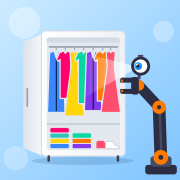
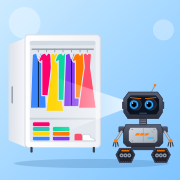
Add files via upload

diff --git a/index.html b/index.html
@@ -49,6 +49,19 @@ h2{font-weight:400;font-size:20px}
 .owner svg{width:16px;height:16px;align-self:center}
 .bgbar{position:absolute;left:0;right:0;bottom:-1px;transform:translateY(100%);background:var(--bg);border-bottom:1px solid var(--line);padding:6px 20px 8px;font-size:13px}
 .bgbar[hidden]{display:none}
+.bgline{display:flex;align-items:center;gap:8px}
+.bgbar .charly{width:22px;height:30px}
+.bgbar:not(.withcharly) .charly{display:none}
+.charly{width:30px;height:40px;flex:none;overflow:visible}
+.charly .eyes{animation:ch-look 2.6s ease-in-out infinite}
+.charly .lid{animation:ch-blink 3.4s infinite}
+.charly .ant{animation:ch-ant 1s steps(2) infinite}
+@keyframes ch-look{0%,100%{transform:translateX(0)}20%{transform:translateX(-16px)}55%{transform:translateX(16px)}75%{transform:translateX(0)}}
+@keyframes ch-blink{0%,90%,100%{opacity:0}93%,95%{opacity:1}}
+@keyframes ch-ant{50%{opacity:.2}}
+.rcard .ph .charly{width:56px;height:76px}
+.desc.loading{display:flex;align-items:center;gap:12px}
+.desc .who{display:block;font-size:13px;font-weight:500;margin-bottom:2px}
 .bgbar .track{height:2px;background:var(--line);margin-top:5px;overflow:hidden;position:relative}
 .bgbar .fill{position:absolute;left:0;top:0;bottom:0;background:var(--loden);transition:width .4s}
 .bgbar .fill.indet{width:30%!important;animation:indet 1.4s ease-in-out infinite}
@@ -262,6 +275,25 @@ const ICON = {
   chevD:I('<path d="m6 9 6 6 6-6"/>'),
 };
 
+/* Charly – kleiner Roboter, erscheint nur während er arbeitet */
+const CHARLY=`<svg class="charly" viewBox="190 50 650 900" aria-hidden="true">
+<path d="M254,780 h128 l40,70 l-40,86 h-128 l-40,-86z M642,780 h128 l40,70 l-40,86 h-128 l-40,-86z" fill="#1F222D"/>
+<rect x="274" y="800" width="88" height="14" rx="4" fill="#FF7A00"/><rect x="662" y="800" width="88" height="14" rx="4" fill="#FF7A00"/>
+<line x1="276" y1="600" x2="212" y2="700" stroke="#8A93A0" stroke-width="30" stroke-linecap="round"/><line x1="748" y1="600" x2="812" y2="700" stroke="#8A93A0" stroke-width="30" stroke-linecap="round"/>
+<circle cx="212" cy="700" r="22" fill="#FF7A00"/><circle cx="812" cy="700" r="22" fill="#FF7A00"/>
+<path d="M322,520 h380 l26,60 v140 l-40,40 h-352 l-40,-40 v-140z" fill="#3F4454"/>
+<path d="M372,556 h280 l16,36 v104 l-24,24 h-264 l-24,-24 v-104z" fill="#C9D0D9"/>
+<path d="M420,640 l20,-24 h40 l-20,24z M470,640 l20,-24 h40 l-20,24z M520,640 l20,-24 h40 l-20,24z" fill="#FF7A00"/>
+<rect x="470" y="452" width="84" height="76" rx="10" fill="#3A3F50"/>
+<line x1="600" y1="170" x2="640" y2="96" stroke="#8A93A0" stroke-width="12" stroke-linecap="round"/><circle class="ant" cx="642" cy="90" r="18" fill="#FF7A00"/>
+<path d="M300,236 l54,-72 h316 l54,72 v150 l-46,70 h-332 l-46,-70z" fill="#3F4454"/>
+<path d="M338,246 l36,-44 h276 l36,44 v118 l-30,46 h-288 l-30,-46z" fill="#0B1220"/>
+<g class="eyes"><circle cx="430" cy="302" r="50" fill="#2FB8FF"/><circle cx="430" cy="302" r="24" fill="#000"/><circle cx="414" cy="286" r="8" fill="#fff"/>
+<circle cx="594" cy="302" r="50" fill="#2FB8FF"/><circle cx="594" cy="302" r="24" fill="#000"/><circle cx="578" cy="286" r="8" fill="#fff"/></g>
+<rect class="lid" x="370" y="246" width="120" height="112" fill="#0B1220" opacity="0"/><rect class="lid" x="534" y="246" width="120" height="112" fill="#0B1220" opacity="0"/>
+<path d="M372,226 l116,10 M652,226 l-116,10" stroke="#FF7A00" stroke-width="10" stroke-linecap="round"/>
+</svg>`;
+
 /* ---------------- Zustand ---------------- */
 const configured = !SUPABASE_URL.startsWith('HIER') && !SUPABASE_KEY.startsWith('HIER');
 const sb = configured ? createClient(SUPABASE_URL, SUPABASE_KEY) : null;
@@ -445,7 +477,7 @@ function viewAdd(){
     <button class="btn ghost" data-a="q-clear">Fertige verwerfen</button></div>`:''}`;
 }
 function qCard(q){
-  if(q.status==='wait' || q.status==='work') return `<div class="rcard" data-card="${q.id}"><div class="ph">${q.status==='work'?'<div class="spinner"></div>':''}</div>
+  if(q.status==='wait' || q.status==='work') return `<div class="rcard" data-card="${q.id}"><div class="ph">${q.status==='work'?CHARLY:''}</div>
     <div><p class="step">${q.status==='wait'?'Wartet …':esc(q.step)}</p><p class="muted small">${esc(q.file.name)}</p></div></div>`;
   if(q.status==='err') return `<div class="rcard"><div class="ph"></div><div><p>${esc(q.err)}</p><p class="muted small">${esc(q.file.name)}</p>
     <button class="linkbtn" data-a="q-remove" data-i="${q.id}" style="margin-top:8px">Entfernen</button></div></div>`;
@@ -457,7 +489,7 @@ function qCard(q){
   return `<div class="rcard"><div><div class="ph"><img src="${q.preview}" alt="Freigestelltes Teil"></div>
     <label class="keep"><input type="checkbox" data-c="q-keep" data-i="${q.id}" ${q.keep?'checked':''}> Übernehmen</label>
     <div class="cardlinks"><button class="linkbtn" data-a="q-erase" data-i="${q.id}">Radieren</button></div></div>
-    <div>${dup}${q.pending?`<p class="note">Erkennung fehlgeschlagen${q.recErr?': '+esc(q.recErr):''}. Sie wird nach dem Speichern automatisch nachgeholt, oder du ordnest selbst ein.</p>`:''}${fieldsHTML(q,'q',q.id)}</div></div>`;
+    <div>${dup}${q.pending?`<p class="note">${q.recErr?esc(q.recErr):'Charly konnte das Teil nicht erkennen'}. Er versucht es nach dem Speichern nochmal, oder du ordnest selbst ein.</p>`:''}${fieldsHTML(q,'q',q.id)}</div></div>`;
 }
 function addFiles(files){
   for(const f of files){
@@ -483,7 +515,7 @@ async function processQueue(){
 }
 function queueProgress(){
   const list=S.queue.filter(x=>x.status!=='saved'), done=list.filter(x=>x.status==='done'||x.status==='err').length;
-  setBg('queue',{text:`Fotos werden verarbeitet: ${Math.min(done+1,list.length)} von ${list.length}`, p:done/list.length});
+  setBg('queue',{text:`Charly verarbeitet Foto ${Math.min(done+1,list.length)} von ${list.length} …`, p:done/list.length, charly:true});
 }
 function setStep(q,msg){ q.step=msg; const el=document.querySelector(`[data-card="${q.id}"] .step`); if(el) el.textContent=msg; }
 
@@ -491,9 +523,9 @@ async function processOne(q){
   const src = await fileToCanvas(q.file, 1600);
   let rec=q.preset||null;
   if(!rec){
-    setStep(q,'Wird erkannt …');
+    setStep(q,'Charly schaut sich das Foto an …');
     try{
-      const r = await gemini({task:'detect', image:photoB64(src,1024,false)}, ()=>setStep(q,'Wartet auf die Erkennung …'));
+      const r = await gemini({task:'detect', image:photoB64(src,1024,false)}, ()=>setStep(q,'Charly ist gleich bei dir …'));
       const list=(Array.isArray(r.items)?r.items:[]).map(cleanRec).slice(0,8);
       if(list.length){
         rec=list[0];
@@ -501,16 +533,16 @@ async function processOne(q){
           const extra=list.slice(1).map((p,k)=>({id:crypto.randomUUID(), file:q.file, sig:q.sig+'#'+(k+1), status:'wait', step:'', keep:true,
             cat:'T-Shirt', color:'', styles:[], seasons:[], dup:null, preset:p}));
           S.queue.splice(S.queue.indexOf(q)+1, 0, ...extra);
-          toast(`${list.length} Teile auf dem Foto erkannt`);
+          toast(`Charly hat ${list.length} Teile auf dem Foto gefunden`);
         }
-      }else q.recErr='Kein Kleidungsstück erkannt';
+      }else q.recErr='Charly sieht hier kein Kleidungsstück (leer)';
     }catch(e){ console.warn('Erkennung nicht verfügbar', e); q.recErr=e.message; }
   }
   const work = rec?.box ? cropToBox(src, rec.box) : src;
-  setStep(q,'Wird freigestellt …');
+  setStep(q,'Charly schneidet das Teil aus …');
   const remove = await getRemover();
   const cutBlob = await remove(await canvasToBlob(work, 'image/jpeg', .92));
-  setStep(q,'Wird aufbereitet …');
+  setStep(q,'Charly richtet es schön her …');
   const cut = await blobToCanvas(cutBlob);
   const out = prepareCutout(cut, {clean:true, straighten:true, level:true});
   q.blob = await exportImage(out);
@@ -557,17 +589,20 @@ function gemini(body, onWait){
   return run;
 }
 function errText(status,code,msg){
-  if(status===429 || code==='rate_limit') return 'Tageslimit von Gemini erreicht (429)';
-  if(status===401 || status===403 && !String(code).startsWith('gemini')) return 'Anmeldung abgelehnt (401): bei der Funktion „Verify JWT“ ausschalten';
-  if(status===404 && !String(code).startsWith('gemini')) return 'Funktion „classify“ nicht gefunden (404)';
-  if(code==='no_key') return 'Gemini-Key fehlt: Secret GEMINI_API_KEY anlegen';
-  if(code==='gemini_400' || code==='gemini_403') return 'Gemini-Key ungültig ('+code.slice(7)+')';
-  if(code==='gemini_404') return 'Gemini-Modell nicht gefunden: Secret GEMINI_MODEL setzen';
-  if(String(code).startsWith('gemini_')) return 'Gemini-Fehler '+code.slice(7);
-  if(code==='bad_request') return 'Bild konnte nicht gesendet werden';
-  if(code) return 'Fehler: '+code+(status?' ('+status+')':'');
-  if(!navigator.onLine) return 'Keine Internetverbindung';
-  return 'Erkennung nicht erreichbar'+(status?' ('+status+')':'')+(msg&&!status?': '+msg:'');
+  code=String(code||'');
+  if(status===429 || code==='rate_limit') return 'Charly braucht eine Pause, das Gratis-Limit ist erreicht (429)';
+  if(status===401 || (status===403 && !code.startsWith('gemini'))) return 'Charly wird nicht reingelassen – bei der Funktion „Verify JWT“ ausschalten ('+status+')';
+  if(status===404 && !code.startsWith('gemini')) return 'Charly findet seinen Arbeitsplatz nicht – Funktion „classify“ fehlt (404)';
+  if(code==='no_key') return 'Charly findet seinen Schlüssel nicht – Secret GEMINI_API_KEY anlegen (no_key)';
+  if(code==='gemini_400' || code==='gemini_403') return 'Charlys Schlüssel passt nicht – Gemini-Key prüfen ('+code+')';
+  if(code==='gemini_404') return 'Charly kennt dieses Modell nicht ('+code+')';
+  if(/^gemini_5\d\d$/.test(code)) return 'Charly ist gerade überlastet, versuch\'s gleich nochmal ('+code+')';
+  if(code.startsWith('gemini_')) return 'Charly hat ein Problem bei Google ('+code+')';
+  if(code==='bad_request') return 'Charly konnte das Bild nicht empfangen (bad_request)';
+  if(code==='server') return 'Charly ist gestolpert (server)';
+  if(code) return 'Charly hat ein Problem ('+code+(status?', '+status:'')+')';
+  if(!navigator.onLine) return 'Charly hat gerade kein Internet (offline)';
+  return 'Charly ist nicht erreichbar ('+(status||msg||'unbekannt')+')';
 }
 function cleanRec(r){
   const pick=(v,list,def)=>list.includes(v)?v:def;
@@ -603,7 +638,7 @@ async function runPending(){
   try{
     let it;
     while((it=todo()[0])){
-      setBg('recog',{text:`Erkenne ${tried+1} von ${total} …`+(lastErr?`  (letzter Fehler: ${lastErr})`:''), p:tried/total});
+      setBg('recog',{text:`Charly erkennt Teil ${tried+1} von ${total} …`+(lastErr?`  Zuletzt: ${lastErr}`:''), p:tried/total, charly:true});
       tried++;
       try{
         const {data:blob,error:dErr}=await sb.storage.from(BUCKET).download(it.image_path);
@@ -621,7 +656,7 @@ async function runPending(){
       }
     }
     if(done<total){
-      setBg('recog',{text:`${done} von ${total} erkannt. Problem: ${lastErr||'unbekannt'}. Neuer Versuch in 10 Minuten.`, p:done/total, err:true});
+      setBg('recog',{text:`Charly hat ${done} von ${total} geschafft. ${lastErr||'Unbekanntes Problem'}. Er versucht es in 10 Minuten nochmal.`, p:done/total, err:true});
       await sleep(12000);
     }
   }finally{
@@ -634,12 +669,12 @@ function setBg(key,val){ if(val) S.bg[key]=val; else delete S.bg[key]; updateBgB
 function bgActive(){ return S.bg.backup || S.bg.queue || S.bg.recog || S.bg.ai || S.bg.offline || null; }
 function bgBarHTML(){
   const b=bgActive();
-  return `<div class="bgbar ${b?.err?'err':''}" id="bgbar" ${b?'':'hidden'} role="status"><span id="bgtext">${esc(b?.text||'')}</span><div class="track"><i class="fill ${b&&b.p==null?'indet':''}" id="bgfill" style="width:${b?Math.max(4,Math.round((b.p||0)*100)):0}%"></i></div></div>`;
+  return `<div class="bgbar ${b?.err?'err':''} ${b?.charly?'withcharly':''}" id="bgbar" ${b?'':'hidden'} role="status"><div class="bgline">${CHARLY}<span id="bgtext">${esc(b?.text||'')}</span></div><div class="track"><i class="fill ${b&&b.p==null?'indet':''}" id="bgfill" style="width:${b?Math.max(4,Math.round((b.p||0)*100)):0}%"></i></div></div>`;
 }
 function updateBgBar(){
   const el=document.getElementById('bgbar'); if(!el) return;
   const b=bgActive(); el.hidden=!b; if(!b) return;
-  el.classList.toggle('err', !!b.err);
+  el.classList.toggle('err', !!b.err); el.classList.toggle('withcharly', !!b.charly);
   document.getElementById('bgtext').textContent=b.text;
   const f=document.getElementById('bgfill'); f.classList.toggle('indet', b.p==null); f.style.width=Math.max(4,Math.round((b.p||0)*100))+'%';
 }
@@ -653,7 +688,7 @@ function renderMenu(){
   let body;
   if(S.menuStep==='recog'){
     const n=S.items.length, k=S.items.filter(i=>i.edited).length, min=Math.max(1,Math.ceil(n*GEM_GAP/60000));
-    body=`<p>Alle ${n} Teile werden im Hintergrund neu erkannt. Das dauert etwa ${min} ${min===1?'Minute':'Minuten'}, du kannst dabei weiter blättern.</p>
+    body=`<p>Charly schaut sich alle ${n} Teile im Hintergrund neu an. Das dauert etwa ${min} ${min===1?'Minute':'Minuten'}, du kannst dabei weiter blättern.</p>
       ${k?`<p class="muted small" style="margin-top:8px">${k} ${k===1?'Teil hast':'Teile hast'} du von Hand korrigiert.</p>`:''}
       <div class="actions">${k?`<button class="btn" data-a="m-recog-go" data-v="skip">Korrigierte überspringen</button>`:''}
         <button class="btn ${k?'ghost':''}" data-a="m-recog-go" data-v="all">Alle neu erkennen</button>
@@ -661,7 +696,7 @@ function renderMenu(){
   }else{
     body=`<div class="field"><h3>Dein Name</h3><div class="inline"><input id="m-name" type="text" value="${esc(userName())}" aria-label="Dein Name"><button class="btn sm" data-a="m-name">Speichern</button></div></div>
       <div class="menu">
-        <button class="mitem" data-a="m-recog" ${S.items.length?'':'disabled'}>Alle neu erkennen<span class="muted small">Ordnet deine Teile mit der KI neu ein</span></button>
+        <button class="mitem" data-a="m-recog" ${S.items.length?'':'disabled'}>Alle neu erkennen<span class="muted small">Charly sortiert deine Teile neu ein</span></button>
         <button class="mitem" data-a="m-backup" ${S.items.length?'':'disabled'}>Sicherung herunterladen<span class="muted small">Alle Fotos und Daten als ZIP-Datei</span></button>
         <label class="mitem" style="cursor:pointer">Aus Sicherung wiederherstellen<span class="muted small">ZIP-Datei auswählen, doppelte Teile werden übersprungen</span><input type="file" accept=".zip,application/zip" data-c="restore" hidden></label>
         ${isAdmin()?`<a class="mitem" href="https://supabase.com/dashboard/project/${PROJECT_REF}/auth/users" target="_blank" rel="noopener">Nutzer anlegen<span class="muted small">Öffnet die Nutzerverwaltung in Supabase</span></a>`:''}
@@ -783,7 +818,7 @@ async function startRecognizeAll(mode){
       if(error) throw error;
     }
     targets.forEach(i=>{ i.pending=true; i.edited=false; });
-    closeSheet(); render(); toast('Neuerkennung läuft im Hintergrund');
+    closeSheet(); render(); toast('Charly legt los');
     runPending();
   }catch(e){ console.error(e); toast('Starten fehlgeschlagen: '+(e.message||e)); }
 }
@@ -1100,7 +1135,9 @@ function viewDress(){
     <div class="chips scroll">${chip('Alle Stile',!S.d.style,'data-a="d-style" data-v=""')}${STYLES.map(s=>chip(s,S.d.style===s,`data-a="d-style" data-v="${s}"`)).join('')}</div>
     ${shown.map(rowHTML).join('')}
     ${hid.length?`<div class="hiddenrows"><span class="muted">Ausgeblendet:</span>${hid.map(s=>`<button class="chip" data-a="d-show" data-s="${s.key}">${s.label} einblenden</button>`).join('')}</div>`:''}
-    ${S.d.desc?`<div class="desc ${S.d.desc.loading?'loading':''}" aria-live="polite">${S.d.desc.occ?`<span class="occ">${esc(S.d.desc.occ)}</span>`:''}${esc(S.d.desc.text||'')}</div>`:''}
+    ${S.d.desc?(S.d.desc.loading
+      ?`<div class="desc loading" aria-live="polite">${CHARLY}<span>${S.d.desc.occ?`<span class="occ">${esc(S.d.desc.occ)}</span>`:''}${esc(S.d.desc.text)}</span></div>`
+      :`<div class="desc" aria-live="polite">${S.d.desc.occ?`<span class="occ">${esc(S.d.desc.occ)}</span>`:''}<span class="who">Charly</span>${esc(S.d.desc.text||'')}</div>`):''}
     <div class="dactions"><button class="btn ghost" data-a="d-shuffle">${ICON.shuffle}Passend mischen</button><button class="btn ghost" data-a="d-suggest">Vorschlagen</button>
       <button class="btn wide" data-a="d-save">Outfit speichern</button></div>
   </div>`;
@@ -1167,12 +1204,12 @@ let descRun=0;
 async function describeCurrent(){
   const its=currentOutfitItems(); if(!its.length || S.offline) return;
   const my=++descRun;
-  S.d.desc={loading:true, text:'Beschreibung wird geschrieben …'}; if(S.view==='dress') render();
+  S.d.desc={loading:true, text:'Charly schaut sich die Kombination an …'}; if(S.view==='dress') render();
   try{
     const r=await gemini({task:'describe', items:its.map(brief)});
     if(my!==descRun) return;
     S.d.desc=r.description?{text:r.description}:null;
-  }catch(e){ if(my!==descRun) return; S.d.desc=null; toast('Beschreibung nicht möglich: '+e.message); }
+  }catch(e){ if(my!==descRun) return; S.d.desc=null; toast(e.message); }
   if(S.view==='dress') render();
 }
 const SUGGEST_CHIPS=['Büro','Brunch','Show','Sport','Abend'];
@@ -1190,8 +1227,8 @@ async function runSuggest(occ){
   occ=(occ||'').trim(); if(!occ){ toast('Bitte einen Anlass eingeben'); return; }
   closeSheet();
   const my=++descRun;
-  S.d.desc={loading:true, occ, text:'Die KI stellt dein Outfit zusammen …'}; render();
-  setBg('ai',{text:'KI stellt ein Outfit zusammen …', p:null});
+  S.d.desc={loading:true, occ, text:'Charly stöbert in deinem Schrank …'}; render();
+  setBg('ai',{text:'Charly stellt dein Outfit zusammen …', p:null, charly:true});
   try{
     const list=S.items.map((i,n)=>({n, ...brief(i)}));
     const r=await gemini({task:'outfit', occasion:occ, season:curSeason(), items:list});
@@ -1203,12 +1240,12 @@ async function runSuggest(occ){
       sel[s.key]=it.id; if(s.key==='kleid') kleid=true;
     }
     if(kleid){ delete sel.oben; delete sel.unten; }
-    if(!Object.keys(sel).length) throw new Error('Kein passendes Outfit gefunden');
+    if(!Object.keys(sel).length) throw new Error('Charly hat nichts Passendes gefunden (keine Auswahl)');
     S.d.kleid=kleid; S.d.seasonOn=false; S.d.style=''; S.d.sel=sel; S.d.locked=new Set();
     S.d.hidden=new Set(SLOTS.map(s=>s.key).filter(k=>!sel[k]));
     saveDressPrefs();
     S.d.desc={occ, text:r.description||''};
-  }catch(e){ if(my===descRun){ S.d.desc=null; toast('Vorschlag nicht möglich: '+e.message); } }
+  }catch(e){ if(my===descRun){ S.d.desc=null; toast(e.message); } }
   setBg('ai',null); if(S.view==='dress') render();
 }
 
@@ -1309,7 +1346,7 @@ async function renderShare(token){
   document.title=d.name+' – Gwandkastl';
   app.innerHTML=`<div class="share"><span class="logo">Gwandkastl</span>
     <p class="muted">Outfit von ${esc(d.owner)}</p><h1>${esc(d.name)}</h1>
-    ${d.description?`<p style="margin-top:12px">${esc(d.description)}</p>`:''}
+    ${d.description?`<p style="margin-top:12px"><span class="muted small" style="display:block">Charly meint</span>${esc(d.description)}</p>`:''}
     <div class="stack">${(d.items||[]).map(i=>`<img src="${esc(i.url)}" alt="${esc(i.category)}">`).join('')}</div>
     <p class="muted small">Link gültig bis ${new Date(d.expires).toLocaleDateString('de-AT')}</p></div>`;
 }

diff --git a/sw.js b/sw.js
@@ -1,5 +1,5 @@
 // Gwandkastl Service Worker – App offline starten, Fotos zwischenspeichern
-const APP = 'gk-app-v1', CDN = 'gk-cdn-v1', IMG = 'gk-img';
+const APP = 'gk-app-v2', CDN = 'gk-cdn-v1', IMG = 'gk-img';
 const SHELL = ['./', './index.html', './manifest.json', './apple-touch-icon.png', './icon-512.png'];
 
 self.addEventListener('install', e => {
